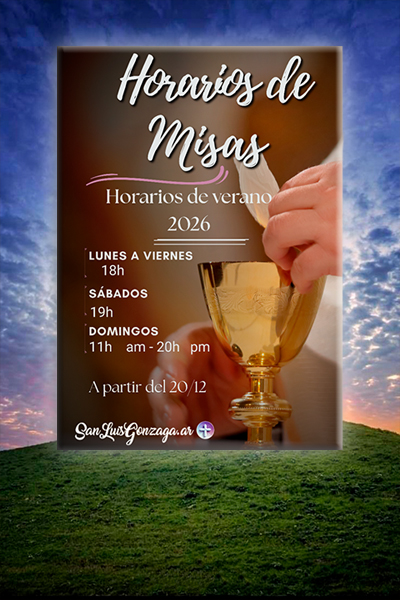
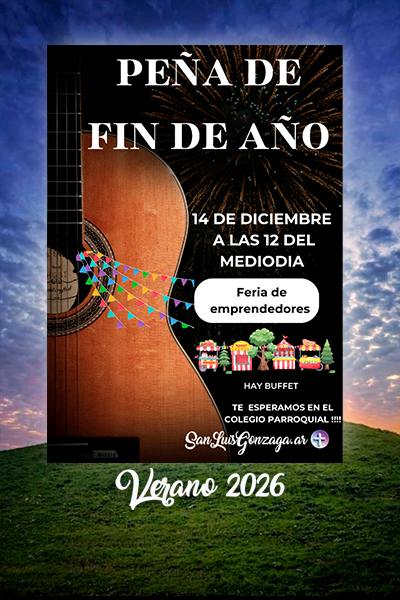
peña

diff --git a/index.html b/index.html
@@ -401,7 +401,7 @@
         <button type="button" data-bs-target="#mainCarousel" data-bs-slide-to="8"></button>
         <button type="button" data-bs-target="#mainCarousel" data-bs-slide-to="9"></button>
         <button type="button" data-bs-target="#mainCarousel" data-bs-slide-to="10"></button>
-        <!-- <button type="button" data-bs-target="#mainCarousel" data-bs-slide-to="11"></button> -->
+        <button type="button" data-bs-target="#mainCarousel" data-bs-slide-to="11"></button>
         <!-- <button type="button" data-bs-target="#mainCarousel" data-bs-slide-to="12"></button> -->
 
       </div>
@@ -421,12 +421,12 @@
         <!--  ***************************************************************
         *   D O C T R I N A    S O C I A L                                                          *
         *************************************************************** -->
-        <!-- <div class="carousel-item ">
-          <a href="#docat">
-            <img src="./slides/social_desktop.jpg" class="d-none d-md-block w-100" alt="Imagen escritorio">
-            <img src="./slides/social_mobile.jpg" class="d-block d-md-none w-100" alt="Imagen móvil">
-          </a>
-        </div> -->
+        <div class="carousel-item ">
+          <!-- <a href="#docat"> -->
+            <img src="./slides/peña_desktop.jpg" class="d-none d-md-block w-100" alt="Imagen escritorio">
+            <img src="./slides/peña_mobile.jpg" class="d-block d-md-none w-100" alt="Imagen móvil">
+          <!-- </a> -->
+        </div>
         <!-- ***************************************************************
         *            R I F A                                                    *
         *************************************************************** -->
